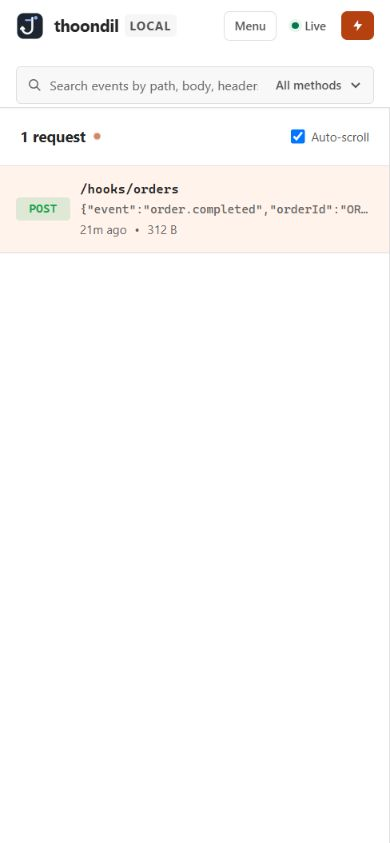
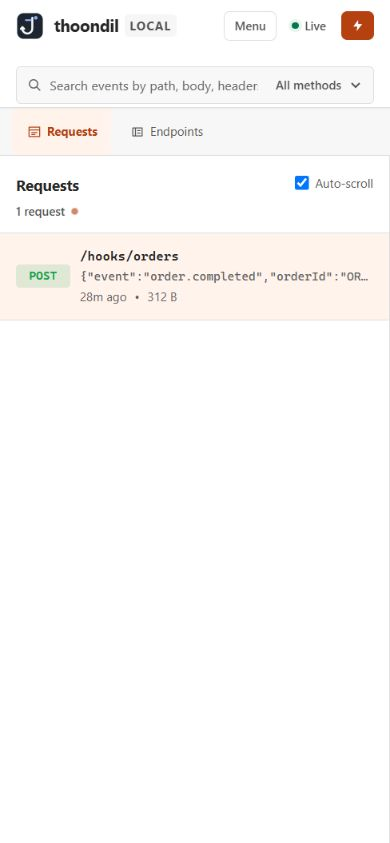
Restructure webhook workspace navigation

Changed region(s): [[0.0308, 0.1542, 0.9538, 0.3701], [0.0615, 0.1234, 0.2769, 0.1851], [0.3385, 0.1542, 0.5231, 0.1851]]

diff --git a/static/index.html b/static/index.html
@@ -42,7 +42,7 @@
       </div>
 
       <div class="topbar-right">
-        <button id="btn-mobile-menu" class="btn-ghost mobile-menu-button" type="button" aria-expanded="false" aria-controls="mobile-tools">Menu</button>
+        <button id="btn-mobile-menu" class="btn-ghost mobile-menu-button" type="button" aria-expanded="false" aria-controls="mobile-utilities">Menu</button>
         <!-- Live Connection Status -->
         <div class="connection-pill" id="conn-pill" title="Server-Sent Events Realtime Stream">
           <span id="status-dot" class="status-dot online"></span>
@@ -91,7 +91,7 @@
       </div>
     </header>
 
-    <div class="mobile-utilities" aria-label="Utilities">
+    <div class="mobile-utilities" id="mobile-utilities" aria-label="Utilities">
       <button type="button" data-action="btn-export">Export</button>
       <button type="button" data-action="btn-clear">Clear</button>
       <button type="button" data-action="btn-theme-toggle">Theme</button>
@@ -101,6 +101,14 @@
     </div>
     <!-- Main 3-pane layout -->
     <div class="workspace">
+      <nav class="workspace-rail" aria-label="Workspace sections">
+        <button type="button" class="rail-button active" data-workspace-view="requests" aria-pressed="true" aria-controls="request-history">
+          <svg viewBox="0 0 24 24" fill="none" aria-hidden="true"><path d="M4 5h16v14H4zM4 9h16M8 13h8M8 16h5" stroke="currentColor" stroke-width="1.5" stroke-linecap="round" stroke-linejoin="round"/></svg><span>Requests</span>
+        </button>
+        <button type="button" class="rail-button" data-workspace-view="endpoints" aria-pressed="false" aria-controls="mobile-tools">
+          <svg viewBox="0 0 24 24" fill="none" aria-hidden="true"><path d="M5 6h14v12H5zM9 6v12M12 10h4M12 14h4" stroke="currentColor" stroke-width="1.5" stroke-linecap="round" stroke-linejoin="round"/></svg><span>Endpoints</span>
+        </button>
+      </nav>
 
       <!-- LEFT SIDEBAR: Channels & Rules -->
       <aside class="sidebar" id="mobile-tools" aria-label="Sidebar navigation">
@@ -166,9 +174,10 @@
       </aside>
 
       <!-- MIDDLE PANE: Event Stream List -->
-      <section class="event-list-pane" aria-label="Incoming webhooks feed">
+      <section class="event-list-pane" id="request-history" aria-label="Incoming webhooks feed">
         <div class="event-list-header">
           <div class="event-list-title-wrap">
+            <strong class="history-heading">Requests</strong>
             <span id="event-count" class="event-count">0 requests</span>
             <span id="stream-pulse" class="stream-pulse-active" title="Streaming live events"></span>
           </div>
@@ -205,12 +214,13 @@
 
         <!-- Event List -->
         <ul id="event-list" class="event-list" role="listbox" aria-label="Captured webhooks"></ul>
+        <div id="no-results" class="no-results" hidden><h3>No matching requests</h3><p>Try another search or clear the filters.</p><button id="btn-clear-filters" type="button" class="btn-ghost">Clear filters</button></div>
       </section>
 
       <!-- RIGHT PANE: Event Inspector -->
       <section class="inspector-pane" id="inspector" aria-label="Request details inspector">
         <button id="btn-back-feed" class="mobile-back" type="button">← Back to requests</button>
-        <div class="workbench-bar"><span>Request inspector</span><span class="workbench-context">Local workspace</span></div>
+        <div class="workbench-bar"><span class="workbench-tab"><span id="workbench-method"></span><span id="workbench-title">Request inspector</span></span><span class="workbench-context">Local workspace</span></div>
         <!-- Inspector Unselected State -->
         <div id="inspector-empty" class="inspector-empty">
           <div class="inspector-empty-inner">
@@ -278,19 +288,19 @@
 
           <!-- Inspector Tabs -->
           <div class="inspector-tabs" role="tablist">
-            <button class="tab-btn active" data-tab="body" role="tab" aria-selected="true">
+            <button id="inspector-tab-body" class="tab-btn active" data-tab="body" role="tab" aria-selected="true" aria-controls="tab-body">
               <span>Body</span>
               <span id="tab-body-badge" class="tab-badge">JSON</span>
             </button>
-            <button class="tab-btn" data-tab="headers" role="tab" aria-selected="false">
+            <button id="inspector-tab-headers" class="tab-btn" data-tab="headers" role="tab" aria-selected="false" aria-controls="tab-headers" tabindex="-1">
               <span>Headers</span>
               <span id="tab-headers-count" class="tab-badge-num">0</span>
             </button>
-            <button class="tab-btn" data-tab="query" role="tab" aria-selected="false">
+            <button id="inspector-tab-query" class="tab-btn" data-tab="query" role="tab" aria-selected="false" aria-controls="tab-query" tabindex="-1">
             <span>Query Params</span>
               <span id="tab-query-count" class="tab-badge-num">0</span>
             </button>
-            <button class="tab-btn" data-tab="raw" role="tab" aria-selected="false">
+            <button id="inspector-tab-raw" class="tab-btn" data-tab="raw" role="tab" aria-selected="false" aria-controls="tab-raw" tabindex="-1">
               <span>Raw</span>
             </button>
           </div>
@@ -298,7 +308,7 @@
           <!-- Tab Panels -->
           <div class="tab-content">
             <!-- BODY TAB -->
-            <div id="tab-body" class="tab-pane active" role="tabpanel">
+            <div id="tab-body" class="tab-pane active" role="tabpanel" aria-labelledby="inspector-tab-body">
               <div class="body-toolbar">
                 <div class="body-toolbar-left">
                   <span id="body-format-badge" class="format-badge format-json">JSON</span>
@@ -315,7 +325,7 @@
             </div>
 
             <!-- HEADERS TAB -->
-            <div id="tab-headers" class="tab-pane" role="tabpanel" hidden>
+            <div id="tab-headers" class="tab-pane" role="tabpanel" aria-labelledby="inspector-tab-headers" hidden>
               <div class="pane-toolbar">
                 <span class="pane-toolbar-title">INCOMING HTTP HEADERS</span>
                 <span class="redact-note">⚠ Sensitive values like Authorization, Cookie, API keys are auto-redacted</span>
@@ -324,7 +334,7 @@
             </div>
 
             <!-- QUERY PARAMS TAB -->
-            <div id="tab-query" class="tab-pane" role="tabpanel" hidden>
+            <div id="tab-query" class="tab-pane" role="tabpanel" aria-labelledby="inspector-tab-query" hidden>
               <div class="pane-toolbar">
                 <span class="pane-toolbar-title">URL QUERY PARAMETERS</span>
               </div>
@@ -332,7 +342,7 @@
             </div>
 
             <!-- RAW TAB -->
-            <div id="tab-raw" class="tab-pane" role="tabpanel" hidden>
+            <div id="tab-raw" class="tab-pane" role="tabpanel" aria-labelledby="inspector-tab-raw" hidden>
               <div class="body-toolbar">
                 <span class="pane-toolbar-title">FULL JSON REPRESENTATION</span>
                 <button id="btn-copy-raw" class="btn-copy-small">

diff --git a/static/app.js b/static/app.js
@@ -337,6 +337,12 @@ function updateChannels() {
       <span class="channel-name" title="${escapedHtml(path)}">${escapedHtml(path)}</span>
       <span class="channel-badge">${count}</span>`;
     li.addEventListener('click', () => setChannel(path));
+    li.addEventListener('keydown', e => {
+      if (e.key === 'Enter' || e.key === ' ') {
+        e.preventDefault();
+        li.click();
+      }
+    });
     dom.channelList.appendChild(li);
   }
 }
@@ -358,6 +364,19 @@ function setChannel(channel) {
   ].join('\n');
 
   applyFilters();
+}
+
+function setWorkspaceView(view) {
+  const workspace = $('.workspace');
+  document.body.classList.remove('mobile-menu-open');
+  $('#btn-mobile-menu').setAttribute('aria-expanded', 'false');
+  workspace.classList.toggle('show-endpoints', view === 'endpoints');
+  workspace.classList.remove('mobile-detail');
+  $$('.rail-button').forEach(button => {
+    const active = button.dataset.workspaceView === view;
+    button.classList.toggle('active', active);
+    button.setAttribute('aria-pressed', String(active));
+  });
 }
 
 // ── Filtering ──────────────────────────────────────────────
@@ -393,6 +412,7 @@ function applyFilters() {
 function renderEventList() {
   dom.eventCount.textContent = `${state.filtered.length} ${state.filtered.length === 1 ? 'request' : 'requests'}`;
   dom.emptyState.hidden = state.events.length > 0;
+  $('#no-results').hidden = state.events.length === 0 || state.filtered.length > 0;
 
   dom.eventList.innerHTML = '';
   for (let i = 0; i < state.filtered.length; i++) {
@@ -500,6 +520,9 @@ function selectEvent(id, openMobile = true) {
   dom.inspMethod.className = `method-badge ${methodClass(event.method)}`;
   dom.inspMethod.textContent = event.method;
   dom.inspPath.textContent = event.path;
+  $('#workbench-title').textContent = event.path;
+  $('#workbench-method').textContent = event.method;
+  $('#workbench-method').dataset.method = event.method;
   dom.inspTime.textContent = new Date(event.receivedAt).toLocaleTimeString();
   dom.inspTime.title = event.receivedAt;
   dom.inspSize.textContent = formatBytes(event.sizeBytes);
@@ -581,15 +604,30 @@ $$('.tab-btn').forEach(btn => {
     $$('.tab-btn').forEach(b => {
       b.classList.remove('active');
       b.setAttribute('aria-selected', 'false');
+      b.tabIndex = -1;
     });
     $$('.tab-pane').forEach(p => p.hidden = true);
 
     btn.classList.add('active');
     btn.setAttribute('aria-selected', 'true');
+    btn.tabIndex = 0;
     const tabId = `tab-${btn.dataset.tab}`;
     const targetPane = $(`#${tabId}`);
     if (targetPane) targetPane.hidden = false;
     renderTab(btn.dataset.tab);
+  });
+  btn.addEventListener('keydown', e => {
+    const tabs = $$('.tab-btn');
+    const index = tabs.indexOf(btn);
+    let next;
+    if (e.key === 'ArrowRight') next = (index + 1) % tabs.length;
+    else if (e.key === 'ArrowLeft') next = (index - 1 + tabs.length) % tabs.length;
+    else if (e.key === 'Home') next = 0;
+    else if (e.key === 'End') next = tabs.length - 1;
+    else return;
+    e.preventDefault();
+    tabs[next].click();
+    tabs[next].focus();
   });
 });
 
@@ -1006,6 +1044,8 @@ function initEvents() {
     await fetch('/api/events', { method: 'DELETE' });
     state.events = [];
     state.selectedId = null;
+    $('#workbench-title').textContent = 'Request inspector';
+    $('#workbench-method').textContent = '';
     state.filtered = [];
     $('.workspace').classList.remove('mobile-detail');
     dom.inspectorEmpty.hidden = false;
@@ -1016,6 +1056,12 @@ function initEvents() {
 
   // Channel 'All' click
   $('.channel-item[data-channel="all"]').addEventListener('click', () => setChannel('all'));
+  $('.channel-item[data-channel="all"]').addEventListener('keydown', e => {
+    if (e.key === 'Enter' || e.key === ' ') {
+      e.preventDefault();
+      e.currentTarget.click();
+    }
+  });
 
   // Relative timestamp refresh every 15s
   setInterval(() => {
@@ -1030,6 +1076,16 @@ function initEvents() {
 applyTheme(state.theme);
 
 const mobileMenuButton = document.getElementById('btn-mobile-menu');
+$$('.rail-button').forEach(button => button.addEventListener('click', () => setWorkspaceView(button.dataset.workspaceView)));
+$('#btn-clear-filters').addEventListener('click', () => {
+  dom.searchInput.value = '';
+  dom.methodFilter.value = '';
+  setChannel('all');
+  dom.searchInput.focus();
+});
+dom.channelList.addEventListener('click', event => {
+  if (event.target.closest('.channel-item')) setWorkspaceView('requests');
+});
 mobileMenuButton.addEventListener('click', () => {
   const open = document.body.classList.toggle('mobile-menu-open');
   mobileMenuButton.setAttribute('aria-expanded', String(open));

diff --git a/static/redesign.css b/static/redesign.css
@@ -87,6 +87,7 @@ body { font-size:13px; }
   .mobile-menu-button { display:inline-flex; }
   .mobile-menu-open .sidebar { display:flex; position:fixed; z-index:120; top:var(--topbar-h); bottom:0; left:0; width:min(300px,85vw); box-shadow:8px 0 24px rgba(28,37,48,.18); }
 }
+@media(min-width:681px) { .mobile-menu-button { display:none; } }
 @media(max-width:680px) {
   :root { --topbar-h:108px; }
   .topbar { padding:0 16px; gap:0 8px; }
@@ -104,6 +105,7 @@ body { font-size:13px; }
   .mobile-utilities button,.mobile-utilities a { padding:7px 9px; border:1px solid var(--border); border-radius:4px; background:var(--bg-card); color:var(--text-primary); font-size:12px; text-decoration:none; }
   .mobile-menu-open .sidebar { top:calc(var(--topbar-h) + 90px); }
 }
+
 @media(prefers-reduced-motion:reduce) { *,*::before,*::after { animation-duration:.01ms !important; transition-duration:.01ms !important; scroll-behavior:auto !important; } }
 
 /* Familiar API workbench conventions, adapted to received webhooks. */
@@ -164,4 +166,53 @@ body { font-size:13px; }
   .inspector-tabs::-webkit-scrollbar { display:none; }
   .tab-btn { white-space:nowrap; }
   .tab-content { padding:16px; }
+}
+
+/* Workspace navigation: one sidebar at a time, with a dedicated workbench. */
+.workspace { grid-template-columns:64px 320px minmax(0,1fr); }
+.workspace-rail { grid-column:1; grid-row:1; display:flex; flex-direction:column; align-items:stretch; gap:4px; padding:10px 4px; background:var(--bg-sidebar); border-right:1px solid var(--border); }
+.rail-button { display:flex; flex-direction:column; align-items:center; justify-content:center; gap:5px; min-height:62px; padding:7px 2px; color:var(--text-secondary); border-radius:4px; font-size:12px; }
+.rail-button svg { width:20px; height:20px; }
+.rail-button:hover { background:var(--bg-hover); color:var(--text-primary); }
+.rail-button.active { background:var(--bg-selected); color:var(--primary); font-weight:700; }
+.workspace .sidebar,.workspace .event-list-pane { grid-column:2; grid-row:1; min-width:0; }
+.workspace .sidebar { display:none; }
+.workspace.show-endpoints .sidebar { display:flex; }
+.workspace.show-endpoints .event-list-pane { display:none; }
+.inspector-pane { grid-column:3; grid-row:1; min-width:0; }
+.inspector-content { flex:1; min-height:0; height:auto; }
+.event-list-header { align-items:flex-start; padding:18px 16px 12px; }
+.event-list-title-wrap { display:flex; flex-wrap:wrap; gap:6px; align-items:center; }
+.history-heading { width:100%; font-size:15px; color:var(--text-primary); }
+.event-count { color:var(--text-secondary); font-size:12px; font-weight:500; }
+.event-list:empty { display:none; }
+.no-results { padding:28px 20px; color:var(--text-secondary); }
+.no-results h3 { margin:0 0 8px; color:var(--text-primary); font-size:15px; }
+.no-results p { margin:0 0 16px; line-height:1.5; }
+.workbench-bar { justify-content:space-between; padding:0; }
+.workbench-tab { display:flex; align-items:center; gap:8px; height:46px; min-width:180px; max-width:70%; padding:0 20px; background:var(--bg-card); border-right:1px solid var(--border); border-top:2px solid var(--primary); overflow:hidden; }
+#workbench-method { color:var(--success); font-size:12px; font-weight:700; }
+#workbench-method[data-method="GET"] { color:var(--verb-get); }
+#workbench-method[data-method="PUT"] { color:var(--verb-put); }
+#workbench-method[data-method="PATCH"] { color:var(--verb-patch); }
+#workbench-method[data-method="DELETE"] { color:var(--verb-delete); }
+#workbench-title { overflow:hidden; text-overflow:ellipsis; white-space:nowrap; }
+.workbench-context { padding-right:20px; }
+@media(max-width:960px) {
+  .workspace { grid-template-columns:64px minmax(260px,320px) minmax(0,1fr); }
+  .workspace .sidebar,.mobile-menu-open .workspace .sidebar { position:static; width:auto; box-shadow:none; }
+  .workspace.show-endpoints .sidebar { display:flex; }
+  .workspace:not(.show-endpoints) .sidebar { display:none; }
+}
+@media(max-width:680px) {
+  .workspace { grid-template-columns:1fr; grid-template-rows:48px minmax(0,1fr); }
+  .workspace-rail { grid-column:1; grid-row:1; flex-direction:row; padding:0 12px; border-right:0; border-bottom:1px solid var(--border); }
+  .rail-button { flex-direction:row; min-height:0; padding:0 14px; font-size:12px; }
+  .rail-button svg { width:16px; height:16px; }
+  .workspace .sidebar,.workspace .event-list-pane,.inspector-pane { grid-column:1; grid-row:2; }
+  .workspace .inspector-pane { display:none; }
+  .workspace.mobile-detail .inspector-pane { display:flex; }
+  .workspace.mobile-detail .event-list-pane,.workspace.mobile-detail .sidebar { display:none; }
+  .mobile-menu-open .mobile-utilities { top:var(--topbar-h); }
+  .workbench-tab { height:42px; padding:0 16px; }
 }

diff --git a/DESIGN.md b/DESIGN.md
@@ -71,7 +71,7 @@ Self-hosted Ubuntu carries documentation display and section headings; system sa
 
 ## Layout
 
-The viewer uses a 240px sidebar, a 280–340px event stream, and a flexible inspector below a 64px top bar. The inspector has a workbench header, request details, replay controls, and content tabs. At 960px the sidebar becomes a mobile menu and the workspace has two columns; at 680px it becomes one column and the top bar grows to 108px. The documentation wrapper is capped at 1320px; its hero and section headings use two columns until their responsive breakpoints.
+The viewer uses a 64px navigation rail, a 320px switchable request or endpoint sidebar, and a flexible inspector below a 64px top bar. The inspector has a request header, replay controls, and content tabs. At 680px the rail becomes a horizontal navigation row, and the selected request opens in place of the sidebar. The top bar grows to 108px. The documentation wrapper is capped at 1320px; its hero and section headings use two columns until their responsive breakpoints.
 
 ## Elevation & Depth
 
@@ -86,7 +86,7 @@ Small radii keep controls and containers practical: 4px for compact elements, 6p
 - **Buttons:** Primary actions use orange with white text, a darker hover, and a modest radius. In dark mode, primary button text is dark for contrast. Ghost actions remain visually quiet.
 - **Search and fields:** Inputs have a bordered surface. Focus is visibly marked with the action color; toggle focus has a 2px outline and 3px offset.
 - **Event rows:** Full-width request rows use dividers; selection adds a pale warm wash.
-- **Navigation:** The sidebar indexes endpoints and rules. The active item uses a selection wash. On narrower screens the menu opens as a fixed panel.
+- **Navigation:** A rail switches between request history and the endpoint and mock response sidebar. The active section uses a selection wash. On narrow screens it becomes a horizontal row.
 - **Inspector:** The selected request gets the flexible main area, with a workbench header, replay bar, tabs, and a light monospace body viewer in the light theme.
 
 ## Do's and Don'ts
